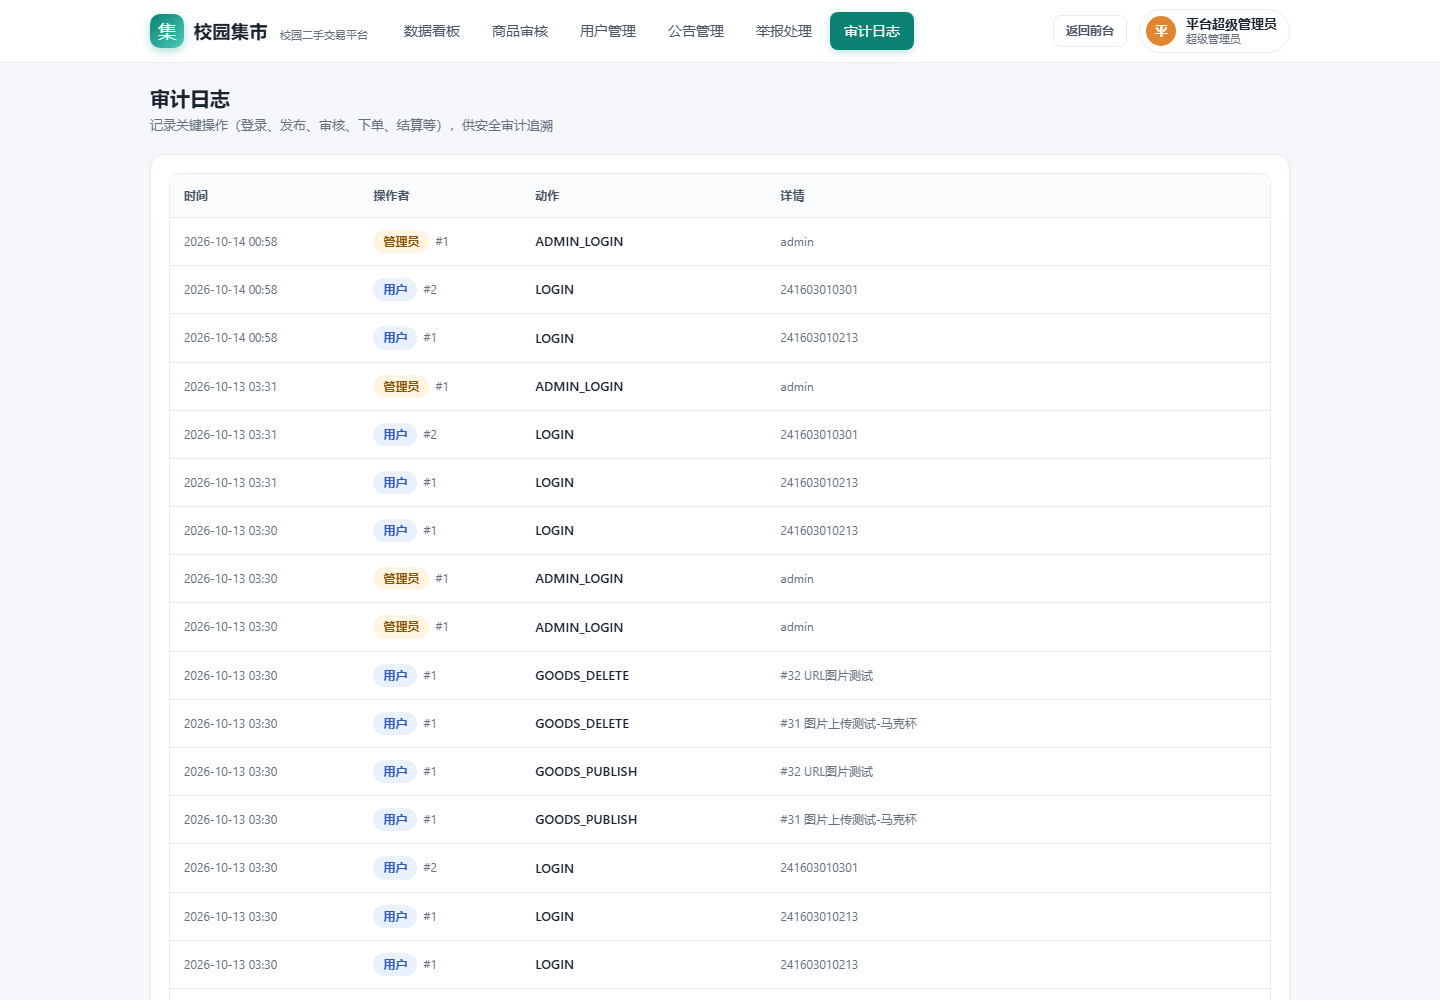
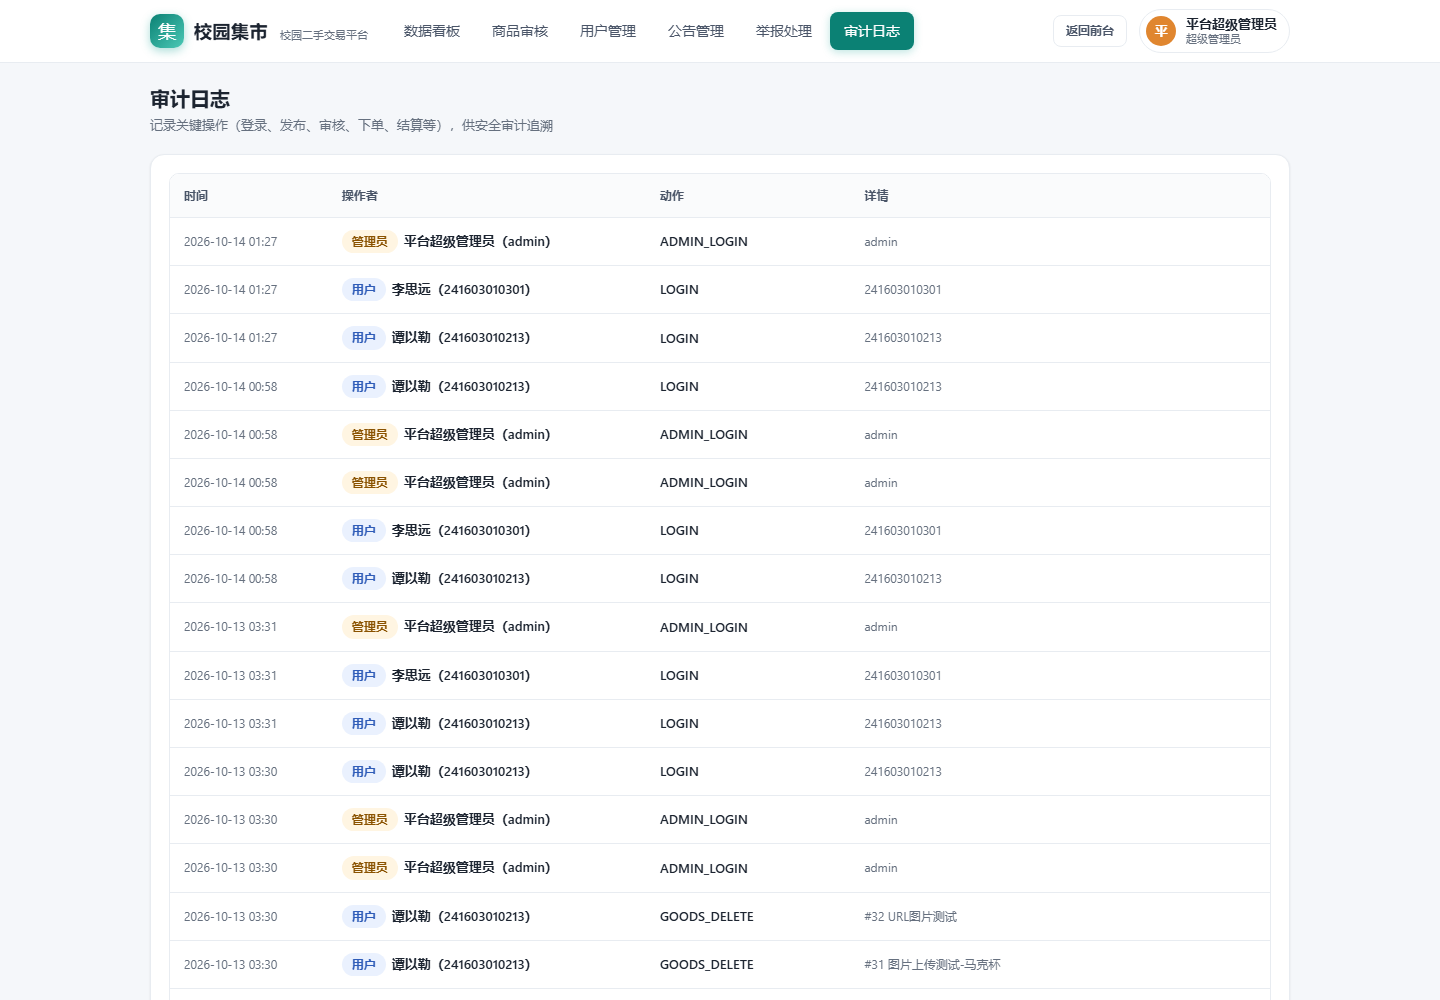
feat: 审计日志操作者显示真实身份
后端联表解析操作者：用户→昵称+学号，管理员→姓名+账号，系统→徽章单独展示；
身份已不存在的记录回退显示 #ID。browser-check 新增断言（40 项）。

diff --git a/public/js/views/admin.js b/public/js/views/admin.js
@@ -322,8 +322,18 @@ export async function renderLogs(root) {
       h('thead', {}, h('tr', {}, ['时间', '操作者', '动作', '详情'].map((t) => h('th', { text: t })))),
       h('tbody', {}, ...d.list.map((l) => h('tr', {},
         h('td', { class: 'cell-sub' }, fmtTime(l.created_at)),
-        h('td', {}, badge(l.actor_type === 'admin' ? '管理员' : l.actor_type === 'system' ? '系统' : '用户', l.actor_type === 'admin' ? 'badge-warn' : l.actor_type === 'system' ? 'badge-muted' : 'badge-info'),
-          h('span', { class: 'cell-sub', style: { marginLeft: 'var(--space-6)' }, text: '#' + (l.actor_id ?? '—') })),
+        h('td', {},
+          badge(l.actor_type === 'admin' ? '管理员' : l.actor_type === 'system' ? '系统' : '用户', l.actor_type === 'admin' ? 'badge-warn' : l.actor_type === 'system' ? 'badge-muted' : 'badge-info'),
+          // 操作者展示真实身份：昵称/姓名 + 账号；身份已不存在的回退为 #ID
+          l.actor_type !== 'system'
+            ? h('span', {
+                class: l.actor_name ? 'cell-strong' : 'cell-sub',
+                style: { marginLeft: 'var(--space-6)' },
+                text: l.actor_name
+                  ? l.actor_name + (l.actor_account ? '（' + l.actor_account + '）' : '')
+                  : '#' + (l.actor_id ?? '—'),
+              })
+            : null),
         h('td', { class: 'cell-strong' }, l.action),
         h('td', { class: 'cell-sub' }, l.detail || '—')
       )))

diff --git a/src/routes/admin.js b/src/routes/admin.js
@@ -212,9 +212,20 @@ export function registerAdmin(router) {
   });
 
   // 审计日志
+  // 审计日志（最近 100 条）：解析操作者真实身份 —— 用户→昵称+学号，管理员→姓名+账号
   router.get('/api/admin/logs', async (req, res) => {
     requireAdmin(req);
-    const list = db.prepare('SELECT * FROM t_audit_log ORDER BY id DESC LIMIT 100').all();
+    const list = db
+      .prepare(
+        `SELECT a.*,
+           CASE a.actor_type WHEN 'user' THEN u.nickname WHEN 'admin' THEN ad.name ELSE '系统' END AS actor_name,
+           CASE a.actor_type WHEN 'user' THEN u.student_no WHEN 'admin' THEN ad.account ELSE '' END AS actor_account
+         FROM t_audit_log a
+         LEFT JOIN t_user  u  ON a.actor_type='user'  AND a.actor_id=u.user_id
+         LEFT JOIN t_admin ad ON a.actor_type='admin' AND a.actor_id=ad.admin_id
+         ORDER BY a.id DESC LIMIT 100`
+      )
+      .all();
     return ok(res, { list });
   });
 }

diff --git a/test/browser-check.js b/test/browser-check.js
@@ -364,6 +364,7 @@ const run = async () => {
     await goto('#/admin/logs', 1300);
     t = await text();
     check('审计日志页渲染', t.includes('审计日志') && t.includes('动作'));
+    check('操作者显示真实身份（昵称/姓名+账号）', t.includes('谭以勒（241603010213）') && t.includes('平台超级管理员（admin）'));
     await shot('15-管理后台-审计日志');
 
     // ---------- 13. 全流程无 JS 错误 ----------
